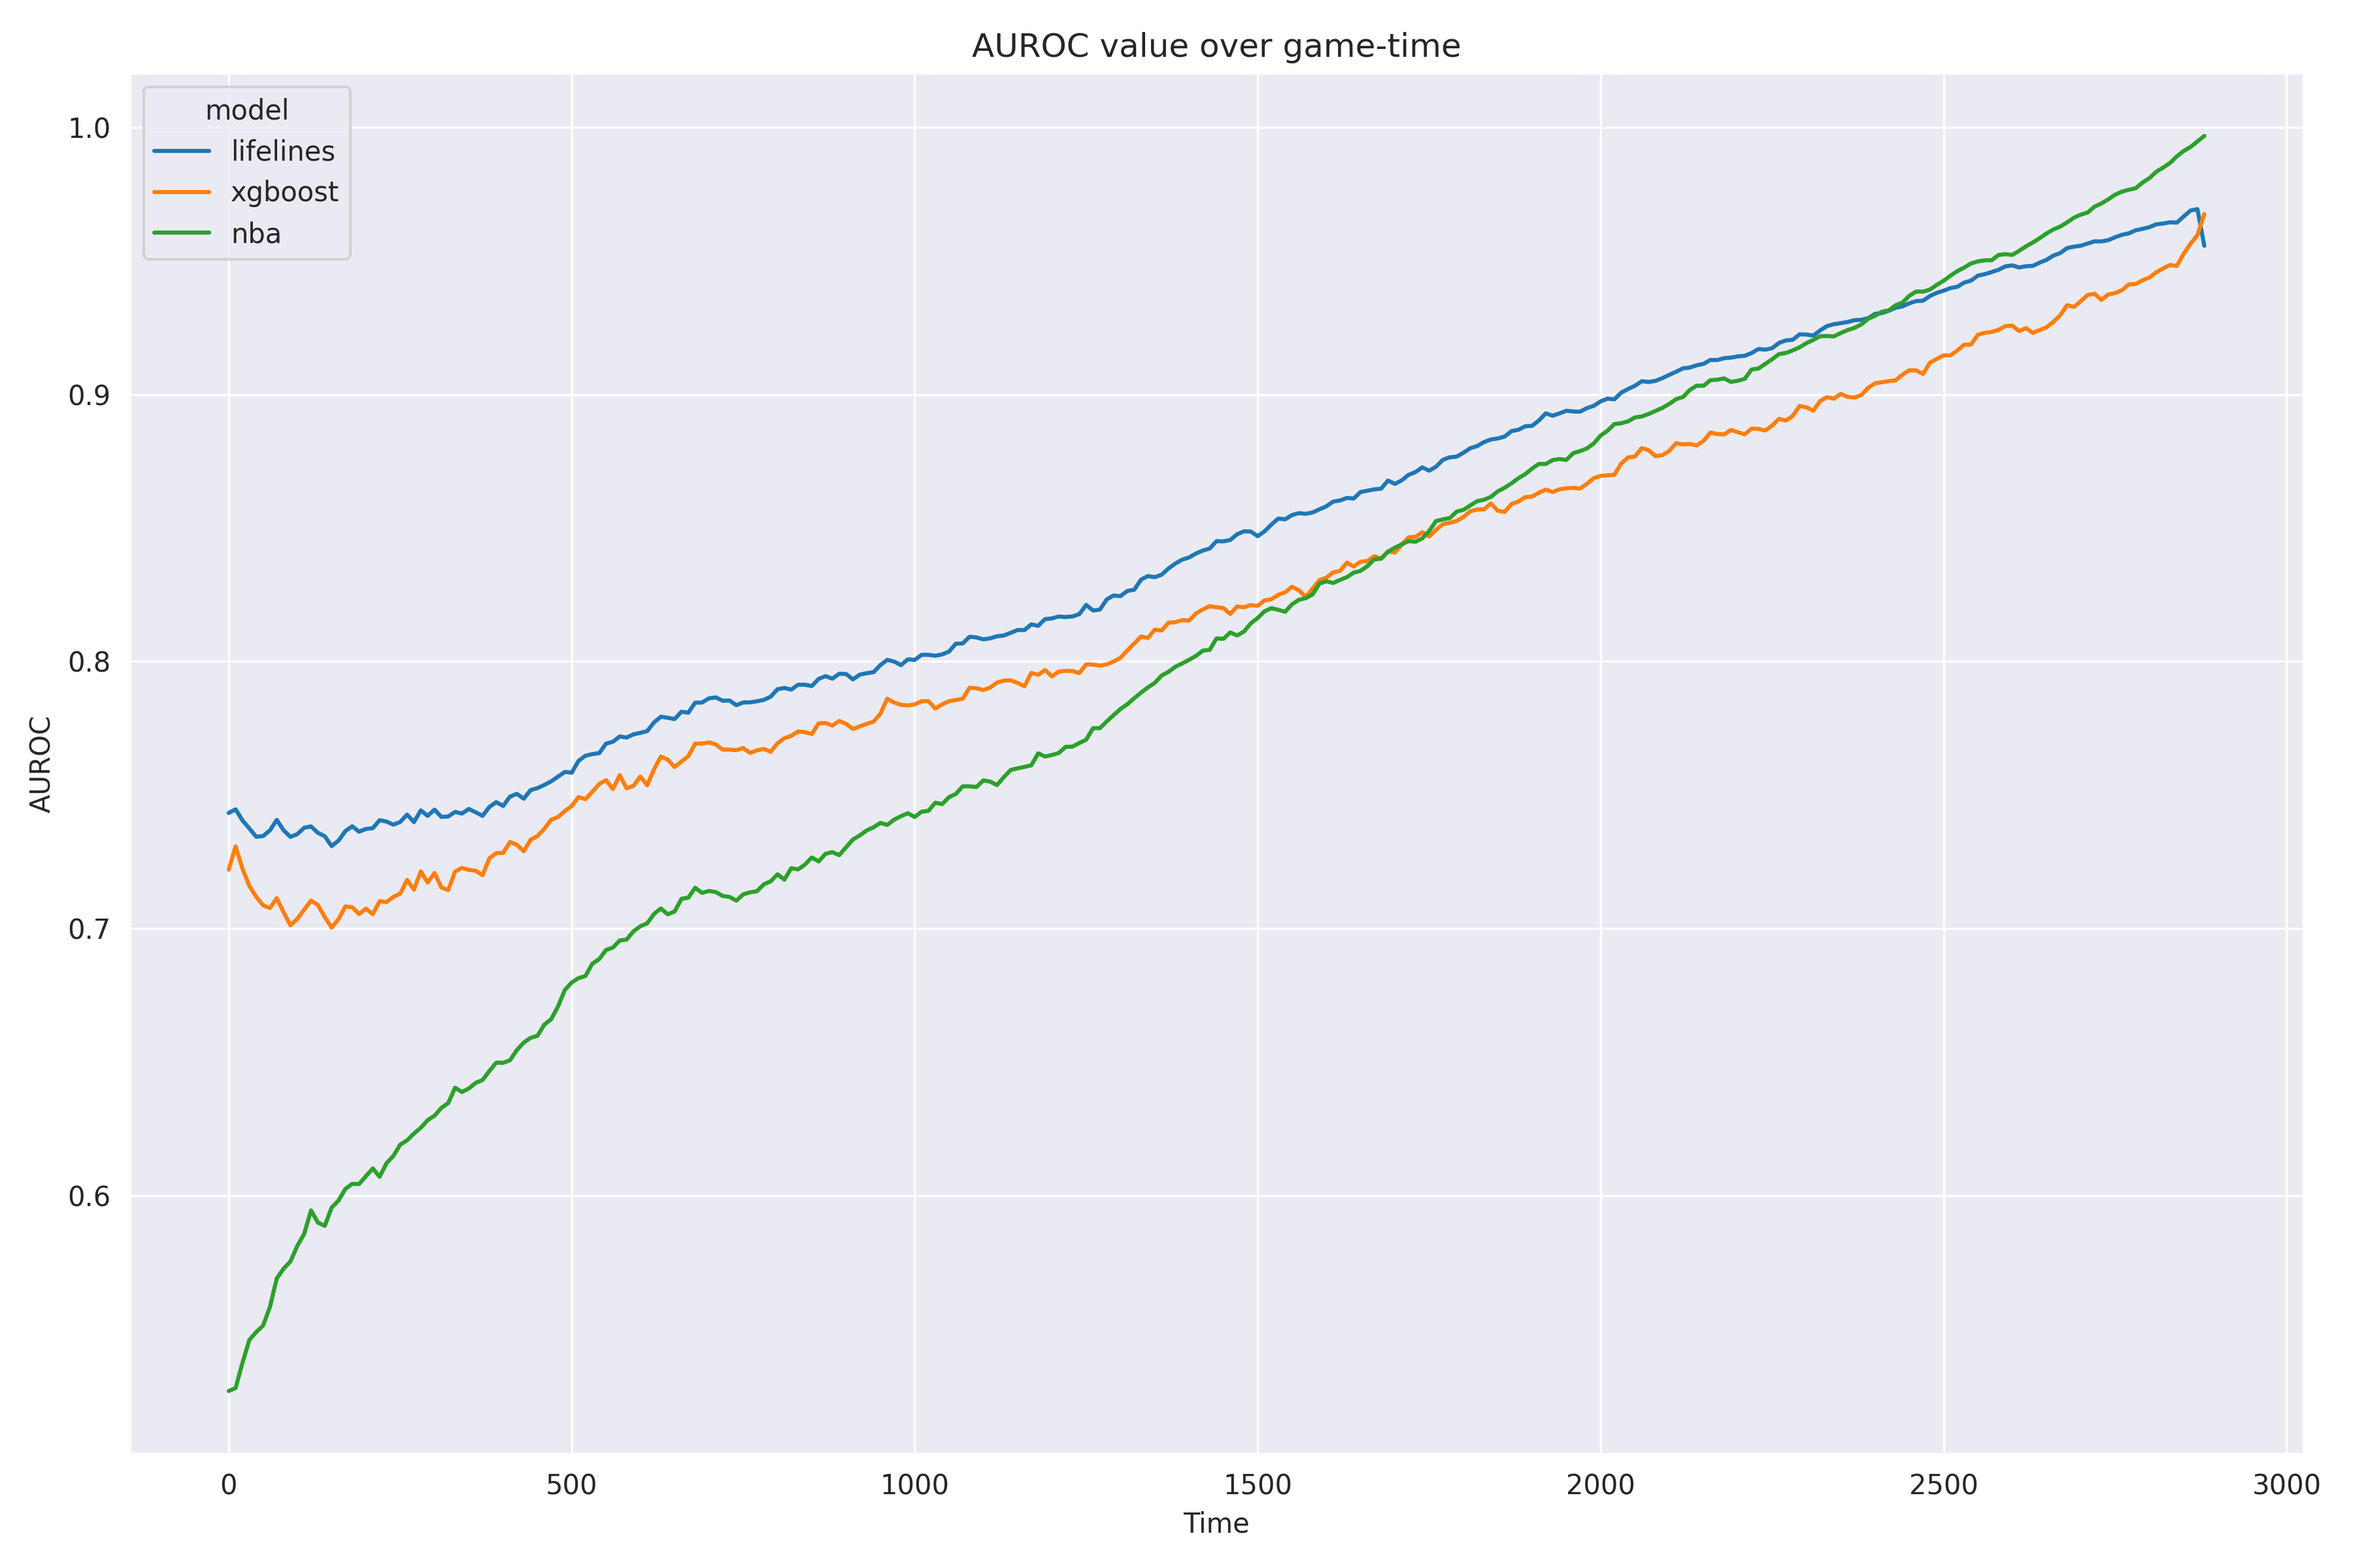
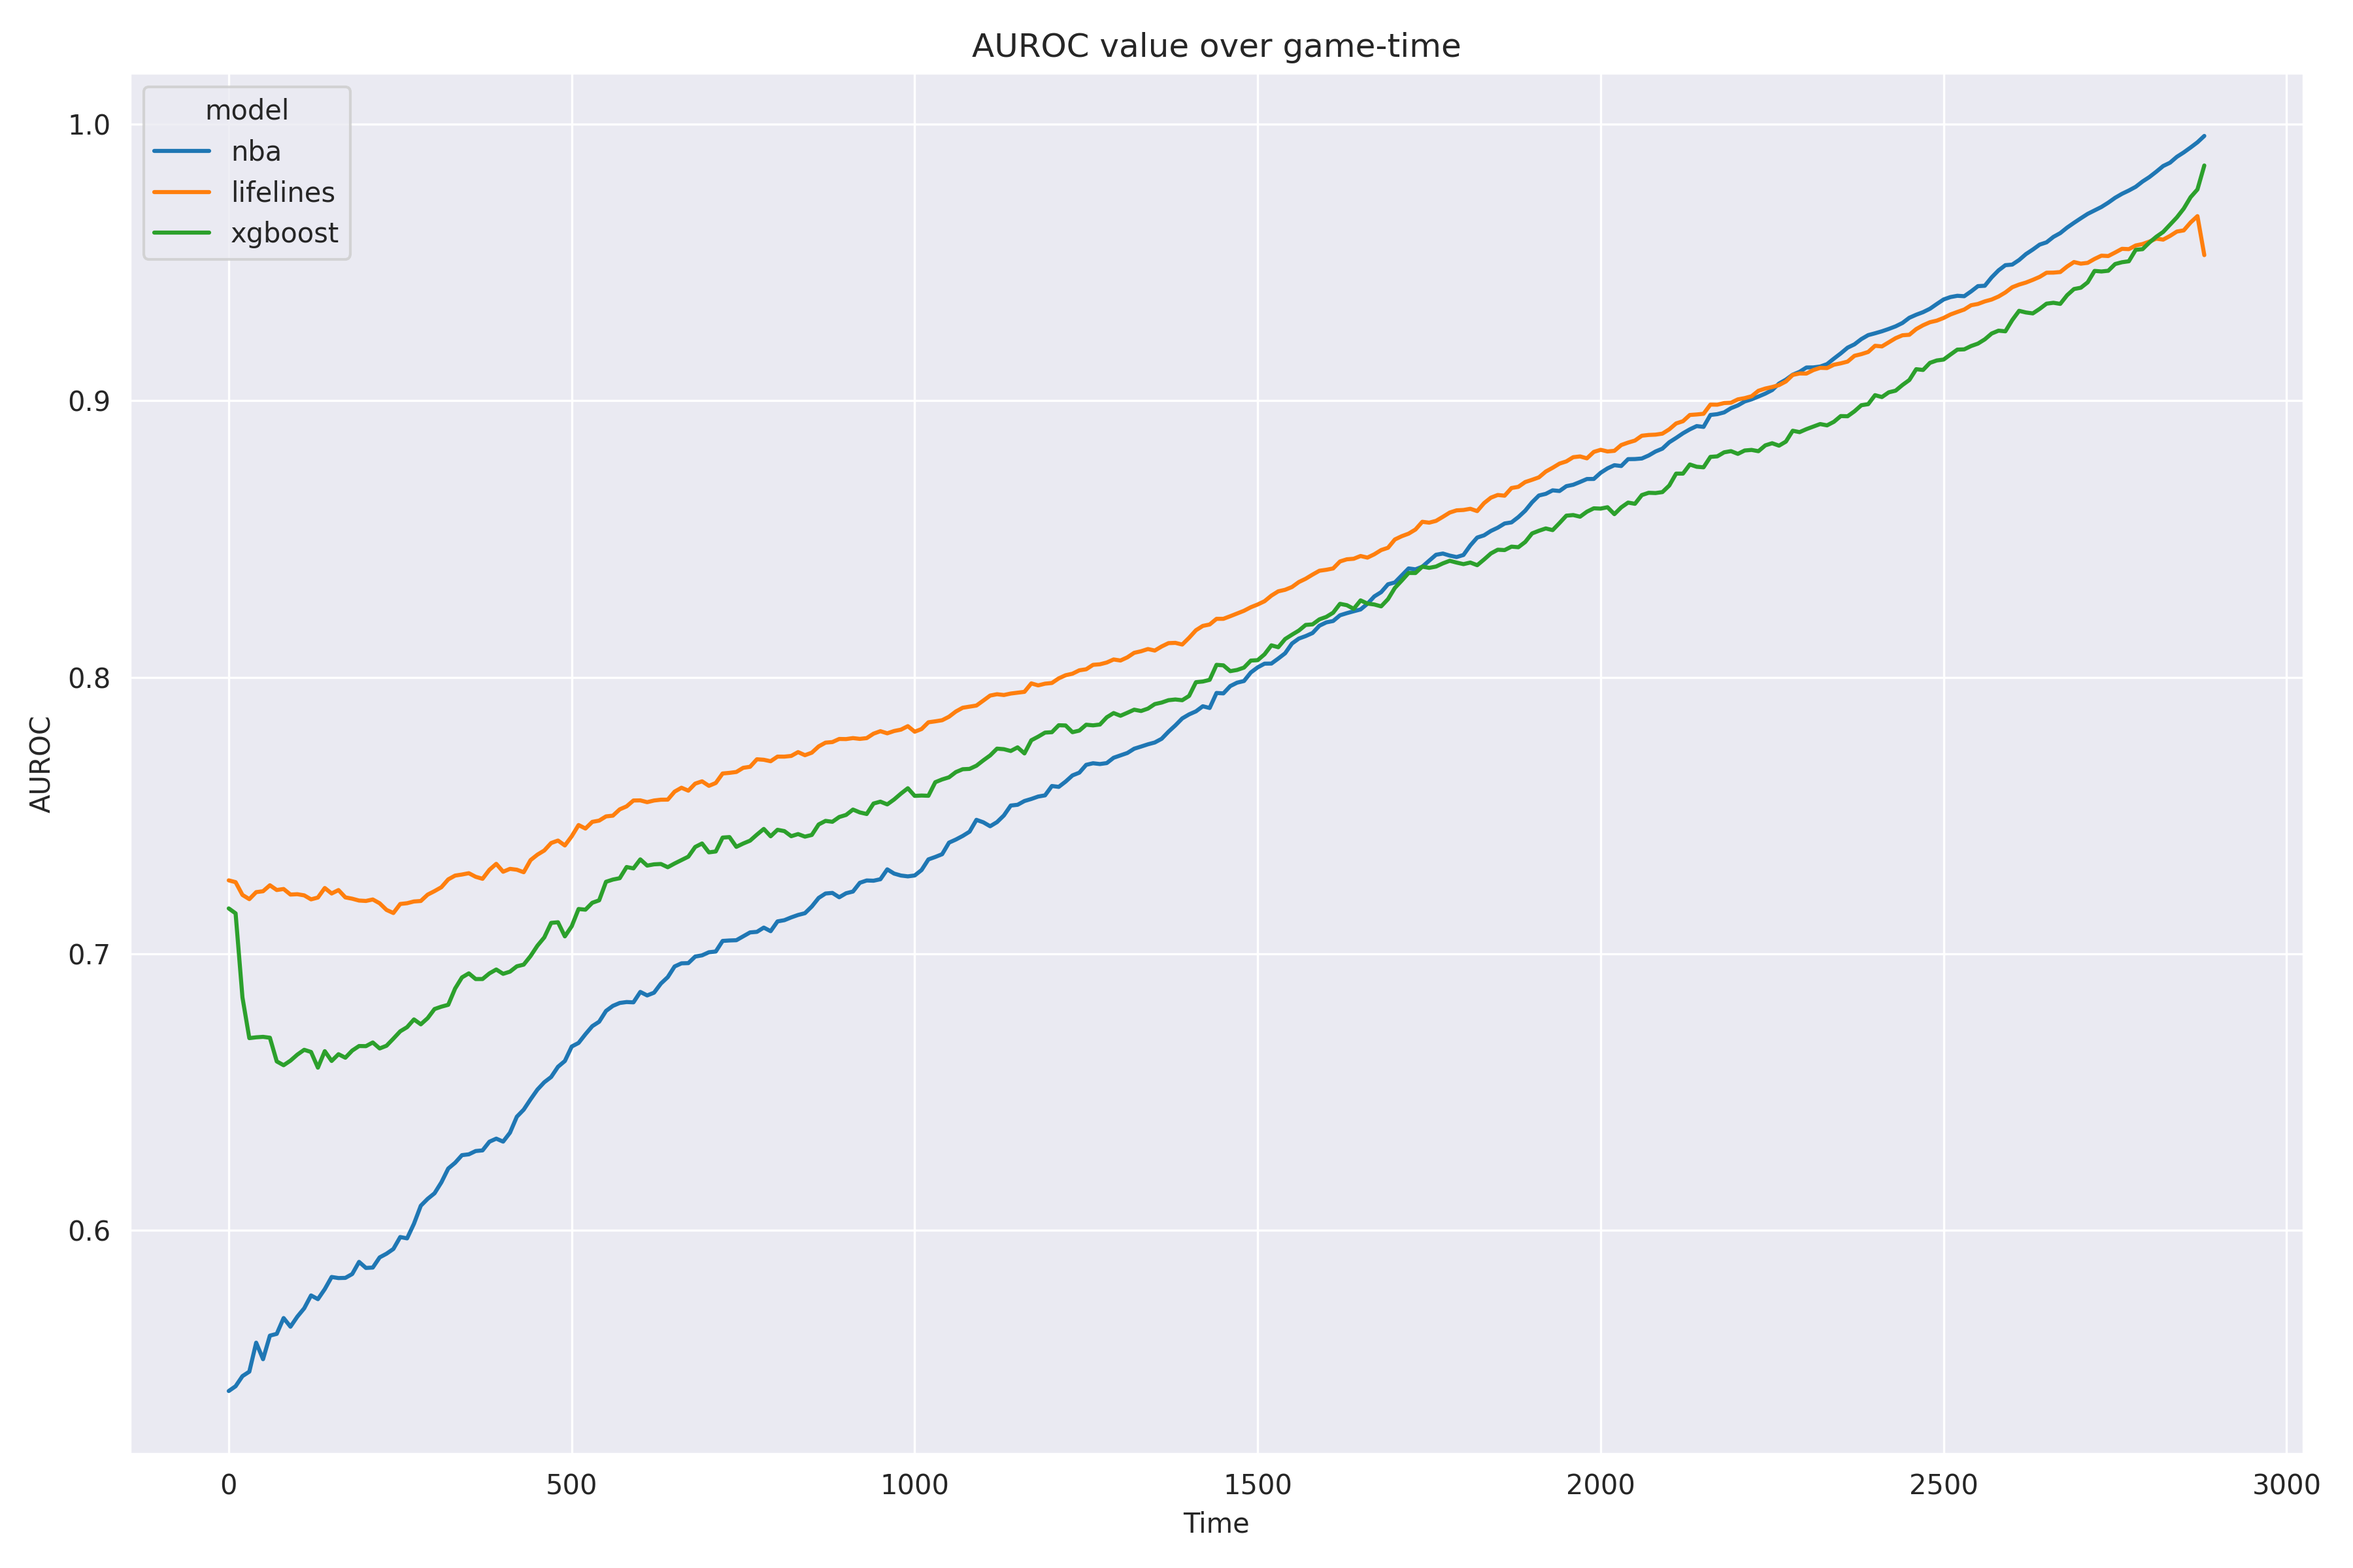
Updating the documentation with the final model build

diff --git a/tests/test_model/test_tasks/test_io.py b/tests/test_model/test_tasks/test_io.py
@@ -4,6 +4,7 @@ from pathlib import Path
 
 import cloudpickle
 from lifelines import CoxTimeVaryingFitter
+from sklearn.isotonic import IsotonicRegression
 
 from nbaspa.model.tasks import LoadData, LoadModel
 
@@ -23,9 +24,14 @@ def test_load_model(tmpdir):
     location = tmpdir.mkdir("fake-model")
     with open(Path(str(location), "mymodel.pkl"), "wb") as outfile:
         cloudpickle.dump(model, outfile)
+    calibrator = IsotonicRegression(out_of_bounds="clip")
+    with open(Path(str(location), "calibrator.pkl"), "wb") as outfile:
+        cloudpickle.dump(calibrator, outfile)
     
     tsk = LoadModel()
     output = tsk.run(filepath=Path(str(location), "mymodel.pkl"))
 
-    assert isinstance(output, CoxTimeVaryingFitter)
-    assert output.penalizer == 1.0
+    assert isinstance(output[0], CoxTimeVaryingFitter)
+    assert output[0].penalizer == 1.0
+    assert isinstance(output[1], IsotonicRegression)
+    assert output[1].out_of_bounds == "clip"

diff --git a/nbaspa/model/scripts/model.py b/nbaspa/model/scripts/model.py
@@ -44,7 +44,7 @@ def build(data_dir, output_dir, splits, seed):
 @click.option("--output-dir", help="Path to the output directory.")
 @click.option(
     "--max-evals",
-    default=5000,
+    default=1000,
     type=int,
     help="Number of hyperparameter tuning iterations",
 )

diff --git a/docs/_model/performance.rst b/docs/_model/performance.rst
@@ -18,8 +18,9 @@ Performance
 
 .. important::
 
-    At this time the models have been trained on data from the 2010-11 through the 2019-20 seasons
-    (pre-bubble).
+    At this time the models have been trained on data from the 2005-06 through the 2019-20 seasons
+    (pre-bubble). The final build dataset had XX XXX games with X XXX XXX rows; the tuning/stopping
+    datasets had X XXX games with XXX XXX rows.
 
 Figure 1 shows the AUROC over game-time for each model.
 
@@ -40,25 +41,129 @@ Overall, the average AUROC lift for each model is summarized below:
 | Model     | Average AUROC | Percentage lift over NBA model |
 |           |               |                                |
 +===========+===============+================================+
-| XGBoost   | 0.822         | 3.974%                         |
+| XGBoost   | 0.822         | 2.863%                         |
 +-----------+---------------+--------------------------------+
-| Lifelines | 0.845         | 6.888%                         |
+| Lifelines | 0.845         | 6.102%                         |
 +-----------+---------------+--------------------------------+
 
 ---------------------
-Hyperparameter tuning
+Model Characteristics
 ---------------------
+
+~~~~~~~~~
+Lifelines
+~~~~~~~~~
 
 Figure 3 shows the hyperparameter tuning results for the ``lifelines`` model. The tuning was done
-using 5 000 evaluations.
+using 1 000 evaluations.
 
 .. image:: ../_static/lifelines-tuning.png
     :align: center
     :alt: Figure 3
 
-Figure 4 shows the hyperparameter tuning results for the ``xgboost`` model. The tuning was done
-using 5 000 evaluations.
+Tuning led to the following final hyperparameters:
+
++----------------+----------------------+
+| Hyperparameter | Value                |
+|                |                      |
++================+======================+
+| ``l1_ratio``   | 0.007837377210952526 |
++----------------+----------------------+
+| ``penalizer``  | 0.09388117587887976  |
++----------------+----------------------+
+
+with the following variable coefficients:
+
++----------------------------------+---------------+
+| Variable                         | Coefficient   |
+|                                  |               |
++==================================+===============+
+| ``SCOREMARGIN``                  | 6.059660e-03  |
++----------------------------------+---------------+
+| ``HOME_LINEUP_PLUS_MINUS``       | -6.037603e-08 |
++----------------------------------+---------------+
+| ``VISITOR_LINEUP_PLUS_MINUS``    | -3.438323e-07 |
++----------------------------------+---------------+
+| ``HOME_NET_RATING``              | 3.071953e-03  |
++----------------------------------+---------------+
+| ``VISITOR_NET_RATING``           | -2.805900e-03 |
++----------------------------------+---------------+
+| ``HOME_W_PCT``                   | 4.033127e-02  |
++----------------------------------+---------------+
+| ``VISITOR_W_PCT``                | -4.164156e-02 |
++----------------------------------+---------------+
+| ``LAST_GAME_WIN``                | 9.586388e-03  |
++----------------------------------+---------------+
+| ``HOME_GAMES_IN_LAST_3_DAYS``    | -1.518382e-05 |
++----------------------------------+---------------+
+| ``VISITOR_GAMES_IN_LAST_3_DAYS`` | 5.745046e-06  |
++----------------------------------+---------------+
+| ``HOME_GAMES_IN_LAST_5_DAYS``    | -9.242708e-06 |
++----------------------------------+---------------+
+| ``VISITOR_GAMES_IN_LAST_5_DAYS`` | 2.554729e-06  |
++----------------------------------+---------------+
+| ``HOME_GAMES_IN_LAST_7_DAYS``    | -1.492246e-05 |
++----------------------------------+---------------+
+| ``VISITOR_GAMES_IN_LAST_7_DAYS`` | 1.824475e-06  |
++----------------------------------+---------------+
+
+Isotonic regression produced the following calibration plot:
+
+.. image:: ../_static/lifelines-calibration.png
+    :align: center
+    :alt: Figure 4
+
+~~~~~~~
+XGBoost
+~~~~~~~
+
+Figure 5 shows the hyperparameter tuning results for the ``xgboost`` model. The tuning was done
+using 1 000 evaluations.
 
 .. image:: ../_static/xgboost-tuning.png
     :align: center
-    :alt: Figure 4
+    :alt: Figure 5
+
+Tuning led to the following hyperparameters:
+
++--------------------------+--------------------------------------------+
+| Hyperparameter           | Value                                      |
+|                          |                                            |
++==========================+============================================+
+| ``colsample_bylevel``    | 0.8313910793985154                         |
++--------------------------+--------------------------------------------+
+| ``colsample_bynode``     | 0.091553664397192                          |
++--------------------------+--------------------------------------------+
+| ``colsample_bytree``     | 0.965672861241127                          |
++--------------------------+--------------------------------------------+
+| ``gamma``                | 0.751343370739138                          |
++--------------------------+--------------------------------------------+
+| ``learning_rate``        | 0.006071133731874241                       |
++--------------------------+--------------------------------------------+
+| ``max_delta_step``       | 1                                          |
++--------------------------+--------------------------------------------+
+| ``max_depth``            | 4                                          |
++--------------------------+--------------------------------------------+
+| ``min_child_weight``     | 516                                        |
++--------------------------+--------------------------------------------+
+| ``monotone_constraints`` | (0, 0, 0, 0, 0, 0, 0, 0, 0, 0, 0, 1, 0, 0) |
++--------------------------+--------------------------------------------+
+| ``reg_alpha``            | 0.6748161854062196                         |
++--------------------------+--------------------------------------------+
+| ``reg_lambda``           | 0.5767841610693845                         |
++--------------------------+--------------------------------------------+
+| ``subsample``            | 0.5118933763828355                         |
++--------------------------+--------------------------------------------+
+
+Isotonic regression produced the following calibration plot:
+
+.. image:: ../_static/xgboost-calibration.png
+    :align: center
+    :alt: Figure 6
+
+Since XGBoost doesn't produce directly interpretable coefficients like a linear model, we will
+use `SHAP <https://github.com/slundberg/shap>`_ to produce feature importances:
+
+.. image:: ../_static/xgboost-shap.png
+    :align: center
+    :alt: Figure 7

diff --git a/docs/_model/modelfit.rst b/docs/_model/modelfit.rst
@@ -31,6 +31,9 @@ models. The **build** dataset will be broken down for each model:
 |               |                |                             | | stopping [*]_                  |
 +---------------+----------------+-----------------------------+----------------------------------+
 
+The datasets will be stratified by season and by the target to ensure that the models are being
+built on representative data.
+
 .. [*] We will use `early stopping <https://xgboost.readthedocs.io/en/latest/python/python_intro.html#early-stopping>`_
        to determine the number of boosting rounds for the model.
 
@@ -129,6 +132,16 @@ After iteration, we used the following space:
 +-----------------------+-----------------------------+
 | ``min_child_weight``  | :math:`QUnif(450, 480, 1)`  |
 +-----------------------+-----------------------------+
+
+We also added a `monotonic constraint <https://xgboost.readthedocs.io/en/latest/tutorials/monotonic.html>`_
+to ensure that the model output is monotonic in scoring margin.
+
+-----------
+Calibration
+-----------
+
+We will use `isotonic regression <https://scikit-learn.org/stable/modules/generated/sklearn.isotonic.IsotonicRegression.html#sklearn.isotonic.IsotonicRegression>`_
+to calibrate the output probabilities from each model to ensure that we have interpretable outputs.
 
 ----------------
 Model evaluation
